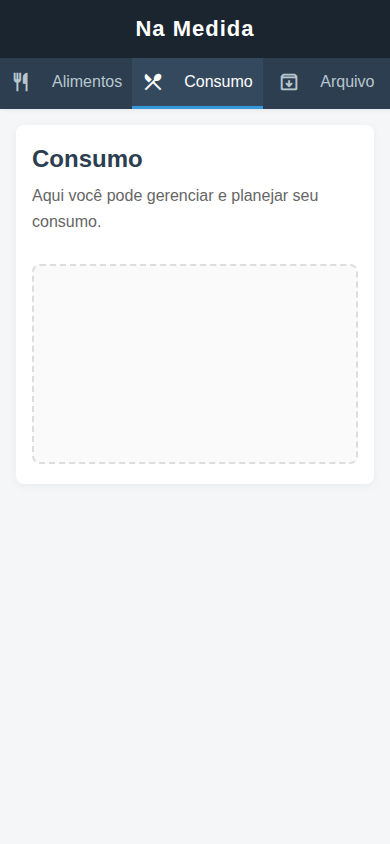
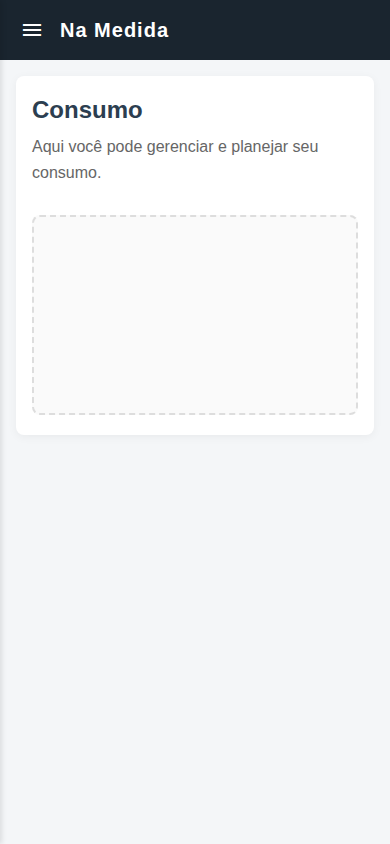
feat: implement mobile responsive sidebar menu with toggle functionality
- Added a mobile top bar with a menu toggle button to open/close the sidebar.
- Implemented functions to handle menu state and page selection.
- Updated styles for mobile top bar and sidebar to enhance responsiveness.
- Added overlay to close the menu when clicked outside.
- Updated tests to capture screenshots of the menu in open and closed states.

Changed region(s): [[0.0, 0.0, 1.0, 0.2773]]

diff --git a/fonte/style.css b/fonte/style.css
@@ -93,6 +93,26 @@ body {
     font-weight: 500;
 }
 
+/* Barra superior e botão do menu recolhível (mobile) */
+.mobile-topbar {
+    display: none;
+}
+
+.menu-toggle {
+    background: none;
+    border: none;
+    color: #fff;
+    cursor: pointer;
+    display: flex;
+    align-items: center;
+    justify-content: center;
+    padding: 4px;
+}
+
+.sidebar-overlay {
+    display: none;
+}
+
 /* Estilos do Conteúdo Principal */
 .main-content {
     flex-grow: 1;
@@ -396,38 +416,48 @@ p {
         flex-direction: column;
     }
 
-    .sidebar {
-        width: 100%;
+    .mobile-topbar {
+        display: flex;
+        align-items: center;
+        gap: 12px;
+        padding: 14px 16px;
+        background-color: #1a252f;
+        color: #fff;
+        position: sticky;
+        top: 0;
+        z-index: 20;
     }
 
-    .sidebar-header {
-        padding: 16px;
+    .mobile-topbar h2 {
+        font-size: 20px;
+        font-weight: 600;
+        letter-spacing: 1px;
     }
 
-    .sidebar-header h2 {
-        font-size: 22px;
-    }
-
-    .sidebar-nav {
-        flex-direction: row;
+    .sidebar-overlay {
+        display: block;
+        position: fixed;
+        inset: 0;
+        background-color: rgba(0, 0, 0, 0.45);
+        border: none;
         padding: 0;
+        cursor: pointer;
+        z-index: 25;
     }
 
-    .nav-btn {
-        flex: 1;
-        justify-content: center;
-        padding: 13px 10px;
-        text-align: center;
-        border-left: 0;
-        border-bottom: 3px solid transparent;
+    .sidebar {
+        position: fixed;
+        top: 0;
+        left: 0;
+        height: 100vh;
+        width: 260px;
+        transform: translateX(-100%);
+        transition: transform 0.25s ease;
+        z-index: 30;
     }
 
-    .nav-btn.active {
-        border-bottom-color: #3498db;
-    }
-
-    .nav-btn .icon {
-        margin-right: 8px;
+    .sidebar.open {
+        transform: translateX(0);
     }
 
     .main-content {

diff --git a/fonte/App.svelte b/fonte/App.svelte
@@ -8,6 +8,7 @@
 
   let paginaAtiva = 'alimentos';
   let alimentoSelecionado = null;
+  let menuAberto = false;
 
   const paginas = [
     { id: 'alimentos', label: 'Alimentos', icon: 'restaurant' },
@@ -30,10 +31,39 @@
     alimentoSelecionado = null;
     paginaAtiva = 'arquivo';
   }
+
+  function alternarMenu() {
+    menuAberto = !menuAberto;
+  }
+
+  function fecharMenu() {
+    menuAberto = false;
+  }
+
+  function selecionarPagina(id) {
+    paginaAtiva = id;
+    fecharMenu();
+  }
 </script>
 
 <div class="app-container">
-  <aside class="sidebar">
+  <header class="mobile-topbar">
+    <button
+      class="menu-toggle"
+      aria-label={menuAberto ? 'Fechar menu' : 'Abrir menu'}
+      aria-expanded={menuAberto}
+      onclick={alternarMenu}
+    >
+      <span class="material-symbols-outlined">{menuAberto ? 'close' : 'menu'}</span>
+    </button>
+    <h2>Na Medida</h2>
+  </header>
+
+  {#if menuAberto}
+    <button class="sidebar-overlay" aria-label="Fechar menu" onclick={fecharMenu}></button>
+  {/if}
+
+  <aside class="sidebar" class:open={menuAberto}>
     <div class="sidebar-header">
       <h2>Na Medida</h2>
     </div>
@@ -43,7 +73,7 @@
           class:active={paginaAtiva === pagina.id}
           class="nav-btn"
           data-page={pagina.id}
-          onclick={() => (paginaAtiva = pagina.id)}
+          onclick={() => selecionarPagina(pagina.id)}
         >
           <span class="material-symbols-outlined icon">{pagina.icon}</span>
           <span>{pagina.label}</span>

diff --git a/testes/layout-responsivo.spec.js b/testes/layout-responsivo.spec.js
@@ -6,6 +6,10 @@ test('mantém o layout responsivo em dispositivos móveis', async ({ page }) => 
 
   await expect(page).toHaveScreenshot('alimentos-mobile.png', { fullPage: true });
 
+  await page.getByRole('button', { name: 'Abrir menu' }).click();
+
+  await expect(page).toHaveScreenshot('menu-aberto-mobile.png', { fullPage: true });
+
   await page.getByRole('button', { name: /Consumo/ }).click();
 
   await expect(page).toHaveScreenshot('consumo-mobile.png', { fullPage: true });
